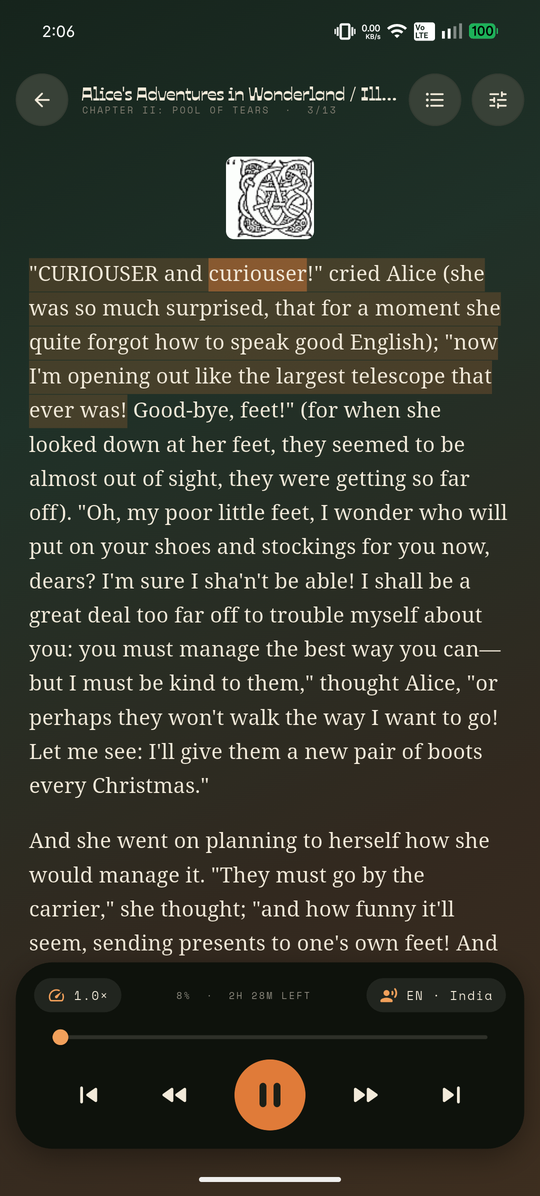
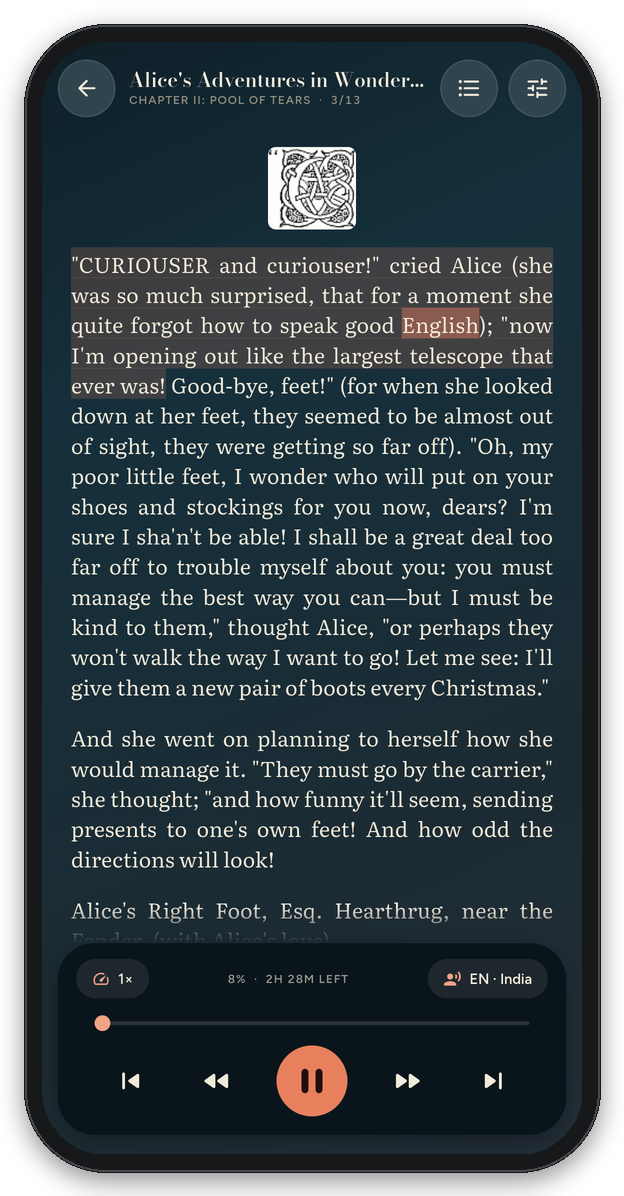
docs: new README screenshots, the first-launch shelf, checkpoint and step-back review

diff --git a/docs/17-step-back-review.md b/docs/17-step-back-review.md
@@ -1,0 +1,71 @@
+# TomeVoice: a step back (2026-10-23, v0.4.0)
+
+A look at the whole app after three days of building, written to steer what comes next.
+The checkpoint for resuming the work is [16-session-handoff.md](16-session-handoff.md).
+
+## What it is now
+
+An Android reader that reads aloud: local books (EPUB, PDF, DOCX, ODT, MOBI/AZW3, FB2, RTF,
+HTML, Markdown, TXT) and web novels from about 300 sites, with the spoken word highlighted
+and the voice shaped by TomeVoice's own audio pipeline. About 22,000 lines (app 14,800 Dart,
+document model 4,200, audio 1,500, Android 1,600), 50 app tests plus 63 package tests, built
+and signed in CI.
+
+## What is genuinely strong
+
+- **The voice pipeline is the moat.** Synthesising each sentence to PCM, then setting word
+  gaps, pauses and loudness itself, is what no other TTS reader does. It also makes playback
+  gapless and the highlighting accurate. Most competitors only call `speak()`.
+- **Breadth without owning scrapers.** Running LNReader's real plugins (real cheerio, not a
+  re-implementation) gives 300 maintained sources for the cost of a JS engine and a
+  shim. When a site changes, LNReader's community fixes the plugin and TomeVoice picks it up.
+- **Cloudflare is handled the robust way.** A page challenged for the app's own client is
+  read through a hidden WebView. That was found by testing on the real phone's network;
+  the PC never saw the problem.
+- **One design system.** Type, spacing, corners, motion and five palettes all come from one
+  place, so new screens look finished by default.
+
+## Where it is weak or at risk (most important first)
+
+1. **The application id is still `app.tomevoice.tomevoice_spike`.** Android treats a new
+   id as a different app, so changing it later forces every user to reinstall and lose their
+   library. It is cheap now and expensive after the first real users. **Do this before
+   sharing the APK more widely.**
+2. **No backup of the TomeVoice library.** A new phone or a reinstall loses progress,
+   categories, downloads and covers. NovelDokusha users can come *in*, but nobody can get
+   *out*. An export/import zip (`library.json`, cursors, `sources/`) is small work and stops
+   that loss.
+3. **Background work does not exist yet.** New chapters are checked only when the app
+   opens, and a "Download all" stops if Android kills the app. A WorkManager job with a
+   notification is needed for both updates and downloads.
+4. **Testing stops at the edge of Flutter.** QuickJS, the WebView fallback, the Kotlin
+   import and first-run seeding are only exercised by hand on one phone (and the seeding
+   could not be, without wiping it). An Android emulator job in CI running a few Maestro
+   flows (fresh install, add source, search, listen) would cover the risky seams.
+5. **Very long web novels.** Shadow Slave has more than 3,000 chapters. The reader builds one
+   layout over every downloaded chapter and rebuilds it when more arrive. That is fine at tens
+   of chapters; it needs measuring at hundreds, and probably a window of chapters around the
+   cursor instead.
+6. **The voices are the phone's.** On many phones the system TTS sounds robotic, and that is
+   the first impression of a read-aloud app. Offline neural voices (Piper / sherpa-onnx,
+   already planned and GPL-compatible) are the biggest single quality lift.
+7. **Legal posture changed on purpose.** LNReader's list is now built in and two web novels
+   are pre-added. That is the developer's call (ADR-019), and it is documented. Keep
+   the app free of any bundled site content, and keep the README free of copyrighted covers.
+8. **Big files.** `reader_screen.dart` (1,560 lines), `library_screen.dart` (1,130) and
+   `library_store.dart` (1,000) now carry several responsibilities each. Split them before
+   the next feature lands in them.
+9. **Smaller UX debts:**
+   - the player bar fills half the screen in landscape
+   - the same novel can exist twice under two sources, and there is no "migrate source"
+     as in Mihon
+   - TalkBack is untested
+
+## What I would do next, in order
+
+1. Rename the application id (one release, documented as "reinstall once").
+2. Library backup and restore.
+3. Background updates and a download queue (WorkManager + notification).
+4. Emulator integration tests in CI, starting with the fresh-install shelf.
+5. Neural voices.
+6. Long-novel layout windowing, source migration, file splits.

diff --git a/docs/16-session-handoff.md b/docs/16-session-handoff.md
@@ -4,6 +4,40 @@
 
 ---
 
+## 0. Checkpoint (2026-10-23, end of session)
+
+**Stopped here on purpose** (the developer needed the machine). Everything is on `main`
+and released as **v0.4.0**; `m1-new-look` equals `main`.
+
+- **On the developer's phone** (Nothing A059, adb `00158351M001200`): v0.4.0 installed. Their
+  library is their own; do not reorganise it, and never re-add "Reborn In A World of Chastity
+  Reversal" (they removed it).
+- **Verified on the phone this session:**
+  - adding LNReader's list (319 sources)
+  - installing NovelBin and Royal Road
+  - global search
+  - novel page; add to library
+  - listening, with chapters fetched ahead and next-chapter past what is downloaded
+  - Royal Road through the hidden WebView (finding 20)
+  - Updates
+  - NovelDokusha import of 8 novels with covers and places
+  - one-tap install of a missing source
+  - the Sources language row
+- **README screenshots** were retaken (public-domain books only, via the library search
+  "alice"), cropped to the app and framed by `mockup.py`. That script lived in the scratchpad
+  and is gone; any PIL rounded-rectangle frame will do.
+- **Not verified on a device:**
+  - first-run seeding (`starter.dart`), which needs a fresh install and could not be tested
+    without wiping the phone; the bundled EPUB import is unit-tested
+  - chapter multi-select and per-chapter downloads on the real phone (widget-tested)
+- **Open, next session:**
+  1. Check the fresh-install shelf on a second device or an emulator.
+  2. The priorities in [17-step-back-review.md](17-step-back-review.md), starting with the
+     application id.
+- **Local machine:** the scratch Flutter SDK and workspaces were deleted at the end of the
+  session (PC kept light). To check locally again, rebuild them as in section 5 (or rely on
+  CI: `gh workflow run build.yml --ref <branch>`).
+
 ## 1. Where the project is
 
 **As of 2026-10-23** (v0.4.0, branch `m1-new-look`, merged to `main` for the release): a
@@ -17,6 +51,7 @@ everything below. The plan these follow is `docs/roadmap.html`.
 | Library | Cover tiles with a translucent info band (list view optional); categories as swipeable pages; long-press multi-select, move, remove; a continue dock at the bottom |
 | Book page | Details, description (EPUB `dc:description`, parsed v5), category, per-book voice with a sample, chapters |
 | Reader | Listen/Read settings sheet; voice picker with readable names and spoken samples; fades under the bars; ornament pictures drawn in the page's ink; keep screen on |
+| First run | A new install starts with Pride and Prejudice (bundled, public domain), ReadNovelFull and Royal Road installed, and Shadow Slave and Lord of the Mysteries added from ReadNovelFull (`starter.dart`) |
 | Web novels | LNReader plugins in QuickJS ([ADR-019](10-decisions-adr.md#adr-019)): Sources (LNReader's list built in, own lists addable, install/update), Browse (global search, per-source feeds), novel page (pull to check for new chapters, per-chapter and batch downloads), reading with chapters fetched ahead |
 | Updates | New chapters checked on app open (off/12 h/daily/2 days/weekly) and from the Updates screen. Not yet a background job |
 | Import | NovelDokusha backup zip (SQLite read in Kotlin) -> web novels with downloaded chapters and place |

diff --git a/README.md b/README.md
@@ -15,9 +15,16 @@ it reads to you — sentence by sentence, the spoken word highlighted, on the de
 with the screen off if you like.
 
 <p align="center">
-  <img src="docs/images/library.png" width="260" alt="The library: a Continue card with one-tap resume, and books with their covers, format, language, listening time and progress">
+  <img src="docs/images/library.png" width="240" alt="The library as cover tiles, each with its format, language, listening time and progress on a translucent band">
   &nbsp;
-  <img src="docs/images/reader.png" width="260" alt="Reading Alice in Wonderland: the spoken sentence washed amber, an illustration in the text, and the player bar">
+  <img src="docs/images/book.png" width="240" alt="A book's page: the cover, category, Continue and Read, the voice chosen for this book, and its chapters with the current one marked">
+  &nbsp;
+  <img src="docs/images/reader.png" width="240" alt="Reading Alice in Wonderland aloud: the spoken sentence and word highlighted, and the player bar">
+</p>
+<p align="center">
+  <img src="docs/images/sources.png" width="240" alt="Sources: LNReader's list built in, the installed sites, and hundreds more to install by language">
+  &nbsp;
+  <img src="docs/images/settings.png" width="240" alt="Settings: five colour themes, light or dark, and the reading type, spacing and margins">
 </p>
 
 No account. No cloud. Your books never leave the phone.
@@ -51,6 +58,9 @@ No account. No cloud. Your books never leave the phone.
   browser engine. Download single chapters or whole novels to listen offline. Your
   NovelDokusha library can be imported from its backup
   ([ADR-019](docs/10-decisions-adr.md#adr-019)).
+- **Never an empty shelf.** A new install starts with *Pride and Prejudice* (public
+  domain, with its 1894 peacock cover) and two popular web novels, *Shadow Slave* and
+  *Lord of the Mysteries*, ready to play. Remove them like any other book.
 - **Five colour themes:** Forest, Lavender, Ocean, Black for OLED screens, and Paper.
 - **Gives you the voice controls readers don't:** speed, pitch, the gap between words,
   and pauses at commas, sentences and paragraphs.
